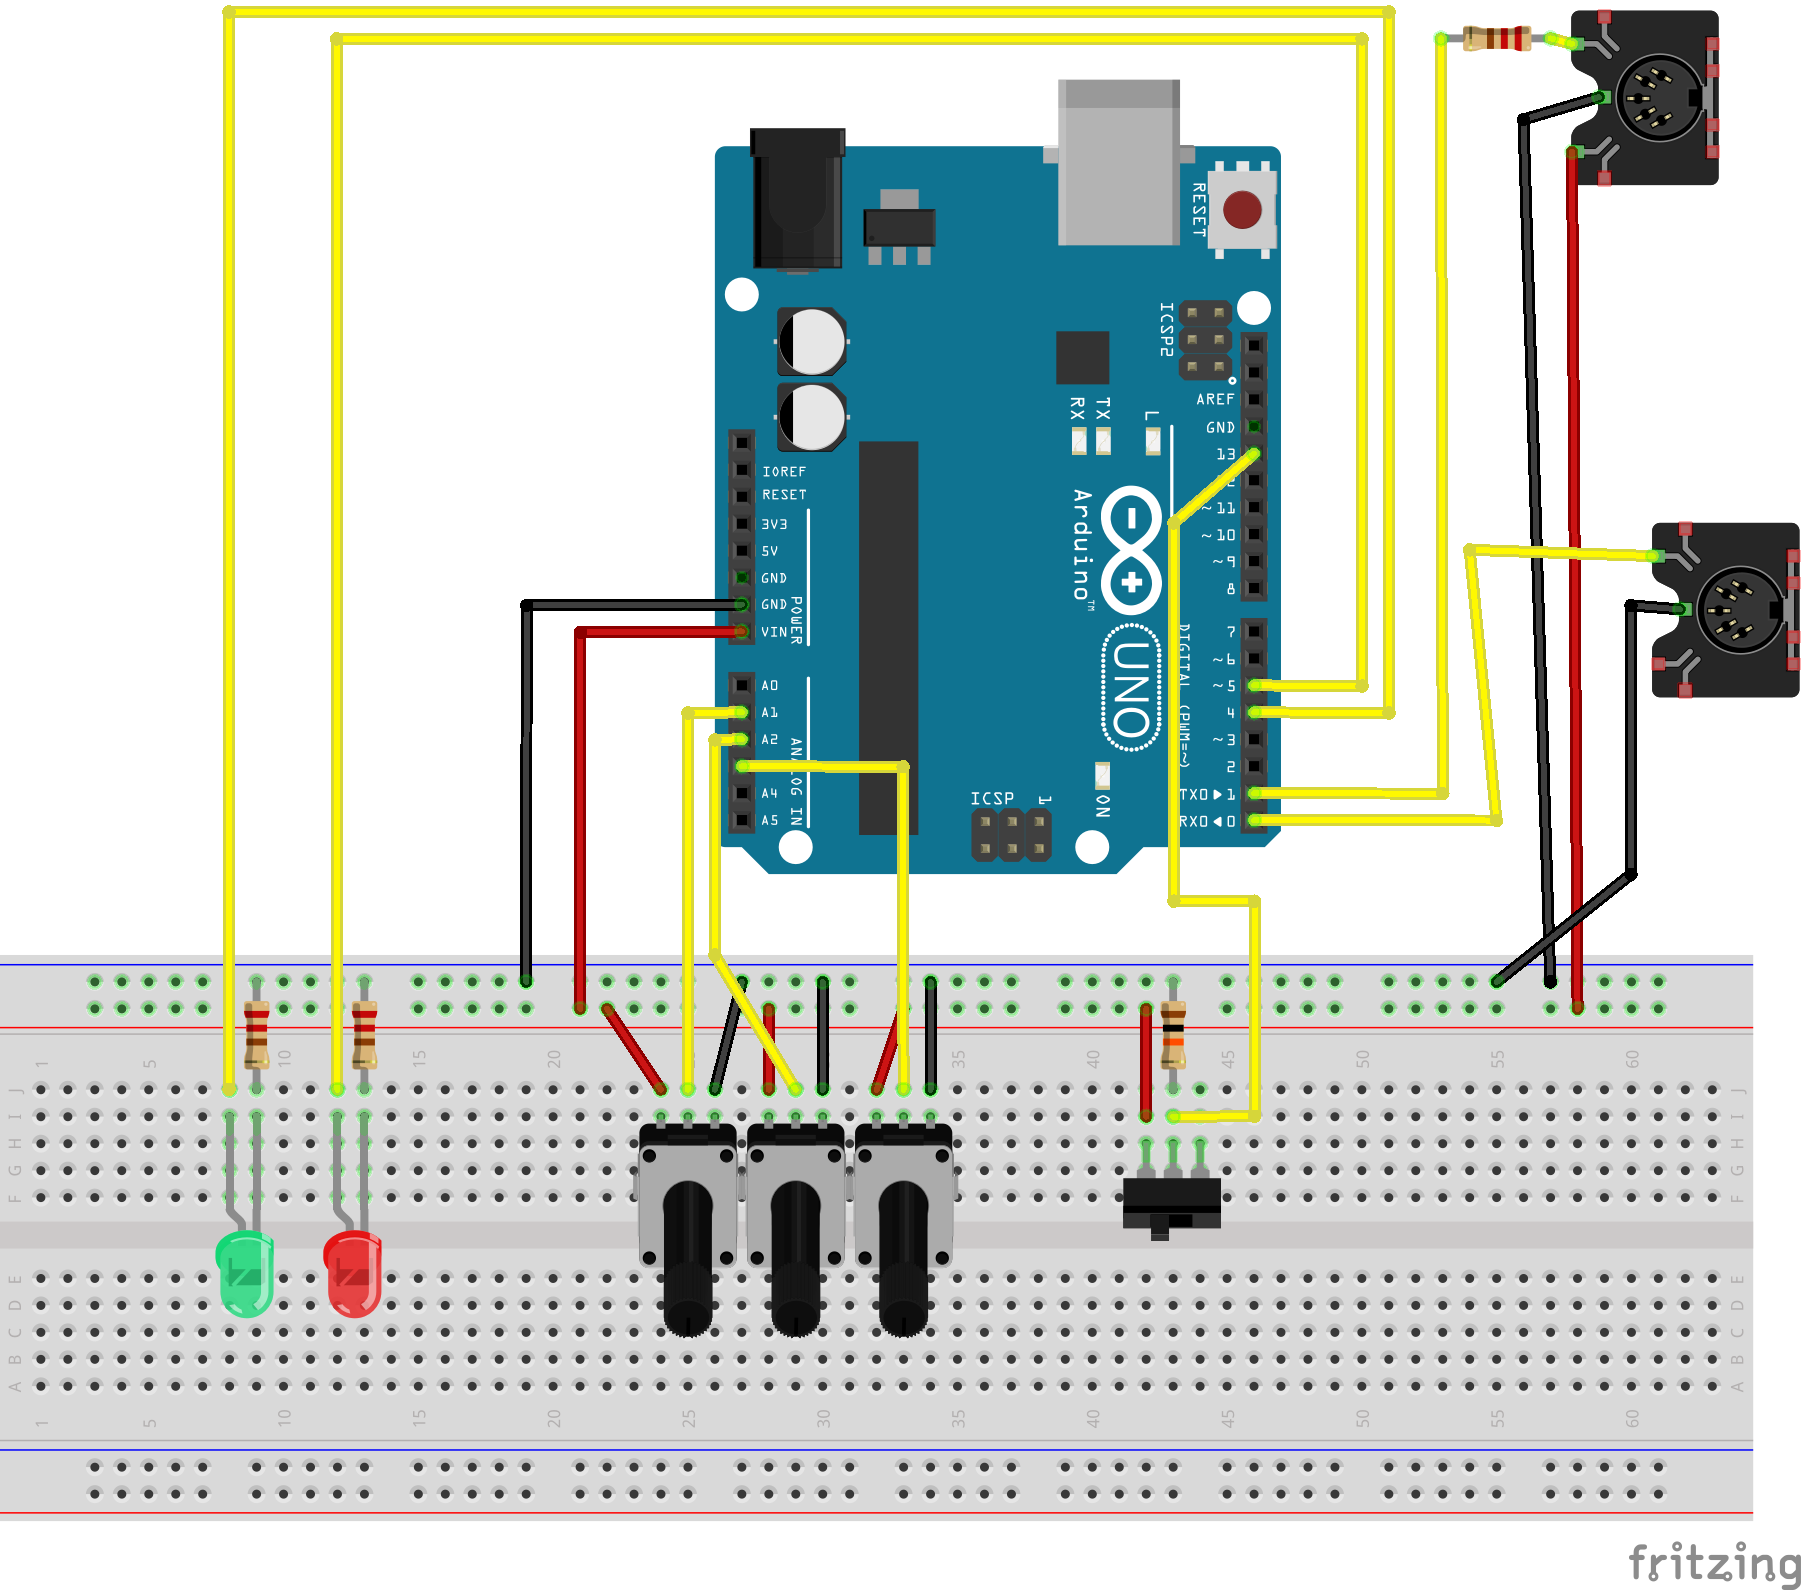
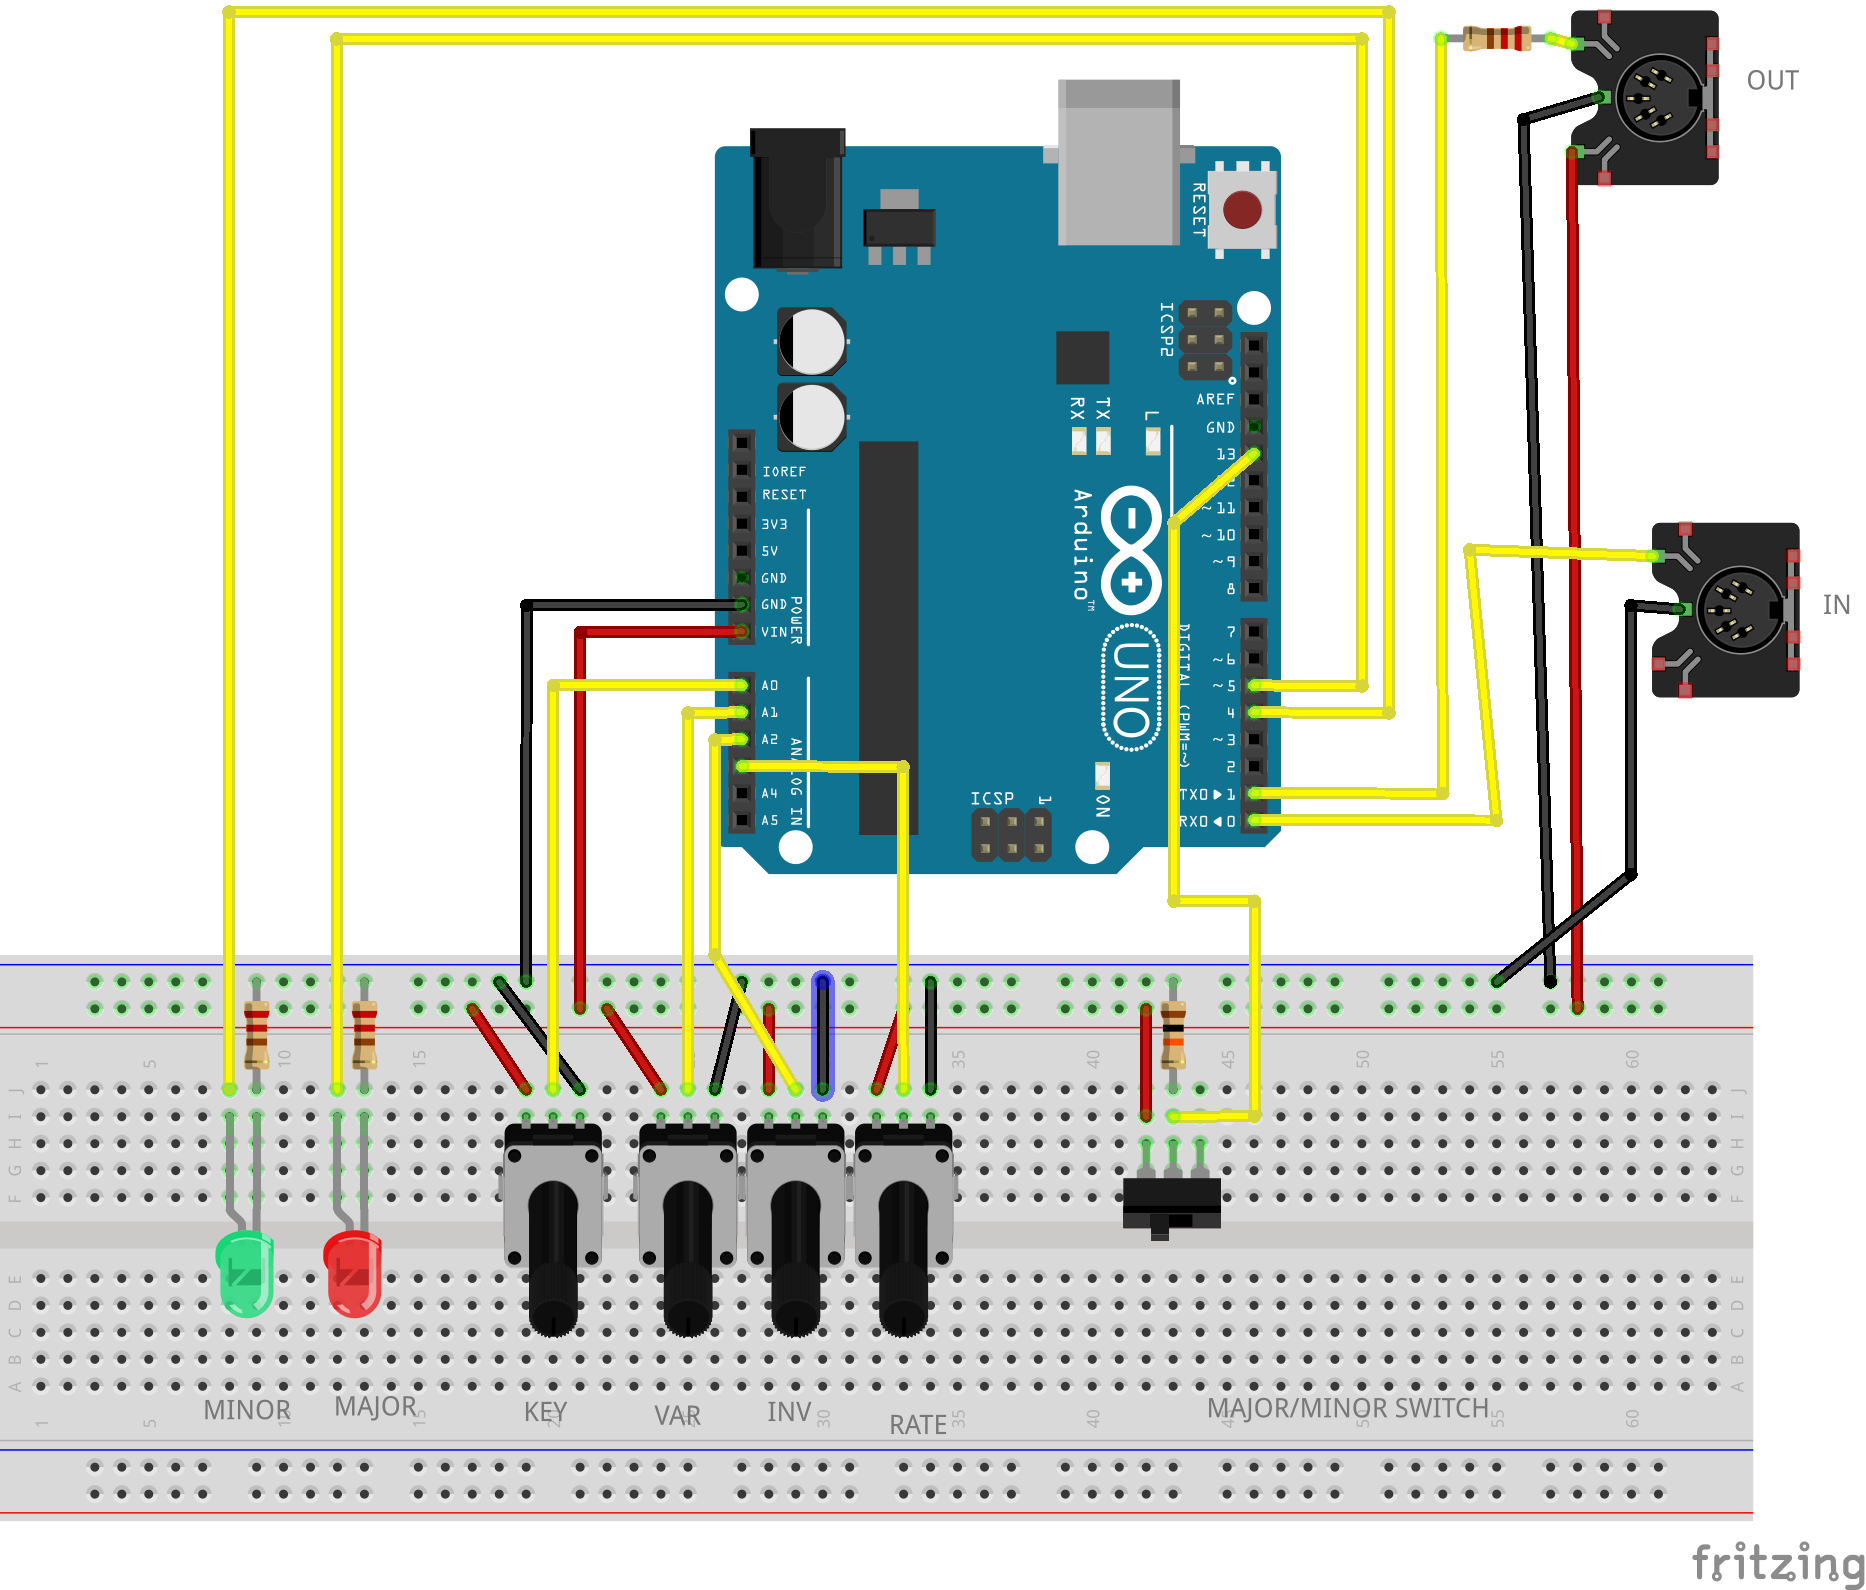
cleaning

Changed region(s): [[0.0311, 0.0, 1.0, 1.0], [0.5591, 0.0308, 0.5901, 0.1541]]

diff --git a/README.md b/README.md
@@ -10,7 +10,9 @@ I wanted to play chords using the Arturia BeatStep Pro sequencer. This sits in t
 
 1 Switch: Choose between Major and Minor modes. Major mode has a dominant 7th rather than major 7th chord, I haven't used it much cause major scales are basic.
 
-3 Pots:
+4 Pots:
+
+- Key Selector: Choose the key, other chords are mapped to scale for diatonic chords (I hope/think)
 
 - Chord Selector: Starting with the root note, add more notes to create a more complex sound. I tried to group the less complex sounds at low values and the more extreme sounds at high values. So, in Minor mode you can turn up to go from one note to a power chord to a minor chord to a minor 7, 9th, 11th, 13th.. with a couple more variations.
 
@@ -21,7 +23,7 @@ I wanted to play chords using the Arturia BeatStep Pro sequencer. This sits in t
 GPIOs per the .ino sketch:
 ![Circuit Diagram](https://github.com/b38tn1k/chordtoy/blob/master/chordtoy_bb.png)
 
-Prototype using a Pro Trinket (same pinouts as UNO):
+Prototype using a Pro Trinket (same pinouts as UNO) before I made it diatonic:
 ![cat tax](https://github.com/b38tn1k/chordtoy/blob/master/cabbagecat.JPG)
 
 \* Akai and Oberheim used to make boxes that did this sort of thing and this functionality is now built into heaps of DAWs, possible some synths. my Yamaha DX doesn't
